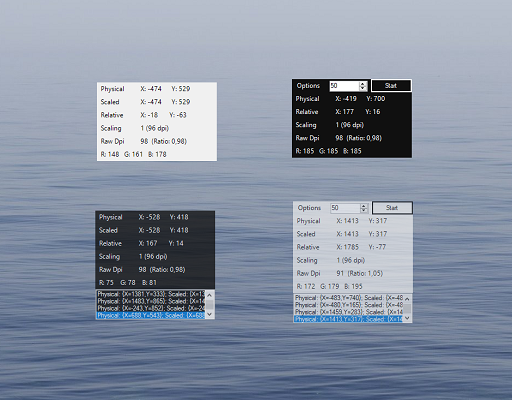
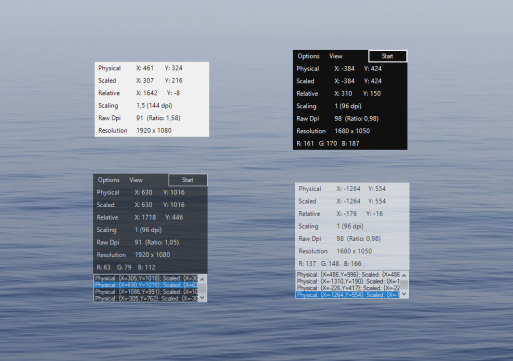
Finished for v.0.3.0. Bug fixes. Added Fody Costura.

diff --git a/MPos/MainForm.cs b/MPos/MainForm.cs
@@ -430,12 +430,16 @@ namespace MPos
 
         private void conShortcut_Click(object sender, EventArgs e)
         {
-            HotKeyInputForm hotKeyInput = new HotKeyInputForm(Settings.ShortcutKey);
-            hotKeyInput.TopMost = this.TopMost;
-            if (hotKeyInput.ShowDialog() == DialogResult.OK)
+            // remove current shortcut during key selection
+            var oldKeys = Settings.ShortcutKey;
+            setNewHotKey(Keys.None);
+            HotKeyInputForm hotKeyInput = new HotKeyInputForm(oldKeys);
+            if (hotKeyInput.ShowDialog(this) == DialogResult.OK)
             {
                 setNewHotKey(hotKeyInput.SelectedKeys);
             }
+            // restore previous shortcut
+            else setNewHotKey(oldKeys);
         }
 
         /// <summary>
@@ -445,6 +449,8 @@ namespace MPos
         {
             hotKey?.Dispose();
             Settings.ShortcutKey = keys;
+            if (keys == Keys.None)
+                return;
             KeyCombination combination = (KeyCombination)keys;
             try
             {
@@ -503,6 +509,7 @@ namespace MPos
         private void lstPositions_VisibleChanged(object sender, EventArgs e)
         {
             if (lstPositions.Visible && lstPositions.Items.Count < 1) lblHelp.Visible = true;
+            else lblHelp.Visible = false;
         }
 
         private void lstPositions_Click(object sender, EventArgs e)

diff --git a/MPos/Properties/AssemblyInfo.cs b/MPos/Properties/AssemblyInfo.cs
@@ -10,13 +10,14 @@ using Bluegrams.Application.Attributes;
 [assembly: AssemblyConfiguration("")]
 [assembly: AssemblyCompany("Bluegrams")]
 [assembly: AssemblyProduct("MPos")]
-[assembly: AssemblyCopyright("Copyright ©  2018")]
+[assembly: AssemblyCopyright("Copyright © 2018-2019 Bluegrams")]
 [assembly: AssemblyTrademark("")]
 [assembly: AssemblyCulture("")]
 
 [assembly: AppPortable(true)]
 [assembly: ProductWebsite("https://mpos.sourceforge.io")]
 [assembly: ProductLicense("LICENSE.txt", "BSD-3-Clause")]
+[assembly: CompanyWebsite("http://bluegrams.com", "Bluegrams")]
 
 // Setting ComVisible to false makes the types in this assembly not visible
 // to COM components.  If you need to access a type in this assembly from
@@ -36,5 +37,5 @@ using Bluegrams.Application.Attributes;
 // You can specify all the values or you can default the Build and Revision Numbers
 // by using the '*' as shown below:
 // [assembly: AssemblyVersion("1.0.*")]
-[assembly: AssemblyVersion("0.2.0.18281")]
-[assembly: AssemblyFileVersion("0.2.0.18281")]
+[assembly: AssemblyVersion("0.3.0")]
+[assembly: AssemblyFileVersion("0.3.0")]

diff --git a/README.md b/README.md
@@ -54,7 +54,7 @@ Read [the changelog](https://github.com/bluegrams/MPos/blob/master/Changelog.md)
 
 ## Feedback and Support
 
-_Please leave a feedback on [Sourceforge](https://sourceforge.net/p/mpos/reviews) or on [AlternativeTo](https://alternativeto.net/software/mpos/). Thank you!_
+_Please leave a feedback on [Sourceforge](https://sourceforge.net/p/mpos/reviews) or on [AlternativeTo](https://alternativeto.net/software/mpos--mouse-position/). Thank you!_
 
 Places to get help:
 

diff --git a/Changelog.md b/Changelog.md
@@ -1,5 +1,11 @@
 # MPos Changelog
 
+### v.0.3 (2020-01)
+- **New:** Added screen resolution of current screen.
+- **New:** Re-show grabbed position data from log.
+- **Changed:** Added configuration of shown data to main menu.
+- **Changed:** Improved hotkey input.
+
 ### v.0.2 (2018-10)
 - **Changed:** Completely rewritten in WinForms (also improves performance).
 - **New:** Global keyboard shortcut to grab current cursor position.
